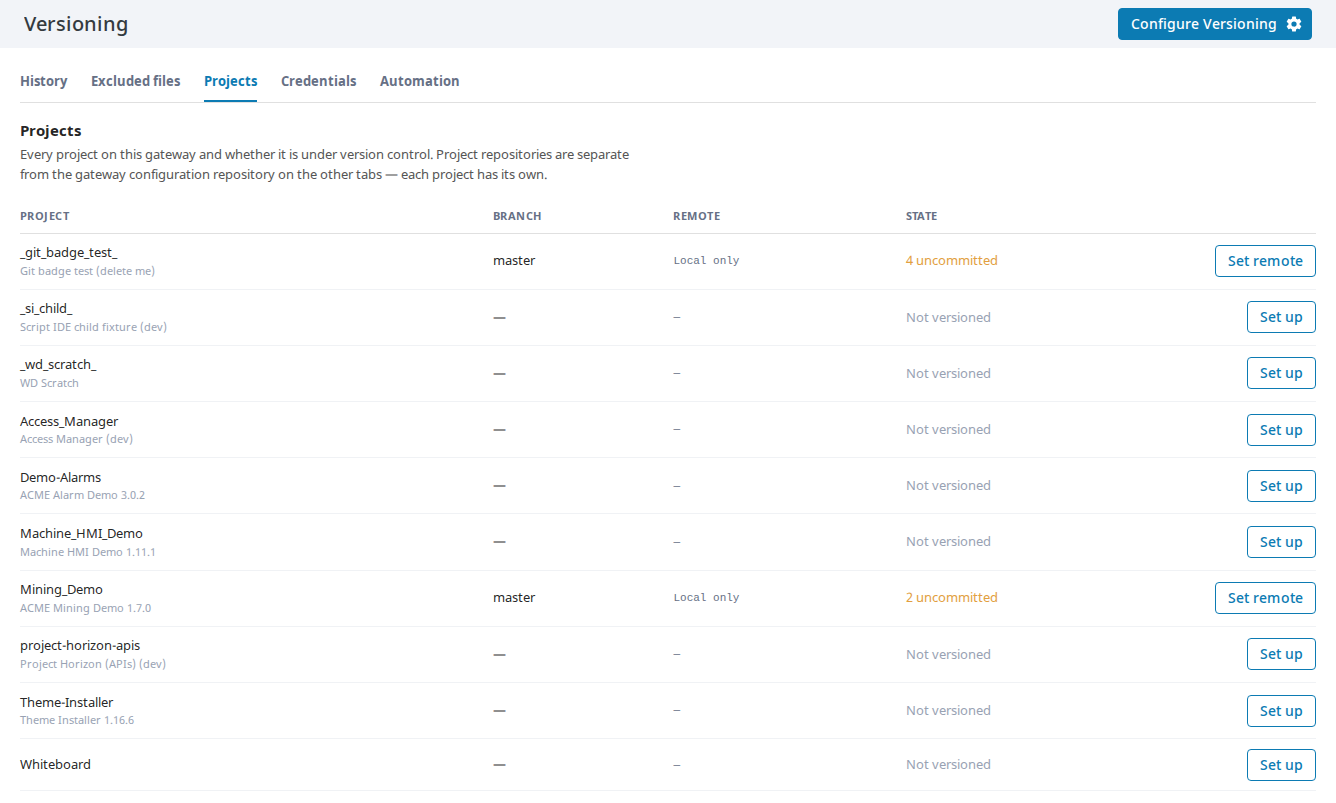
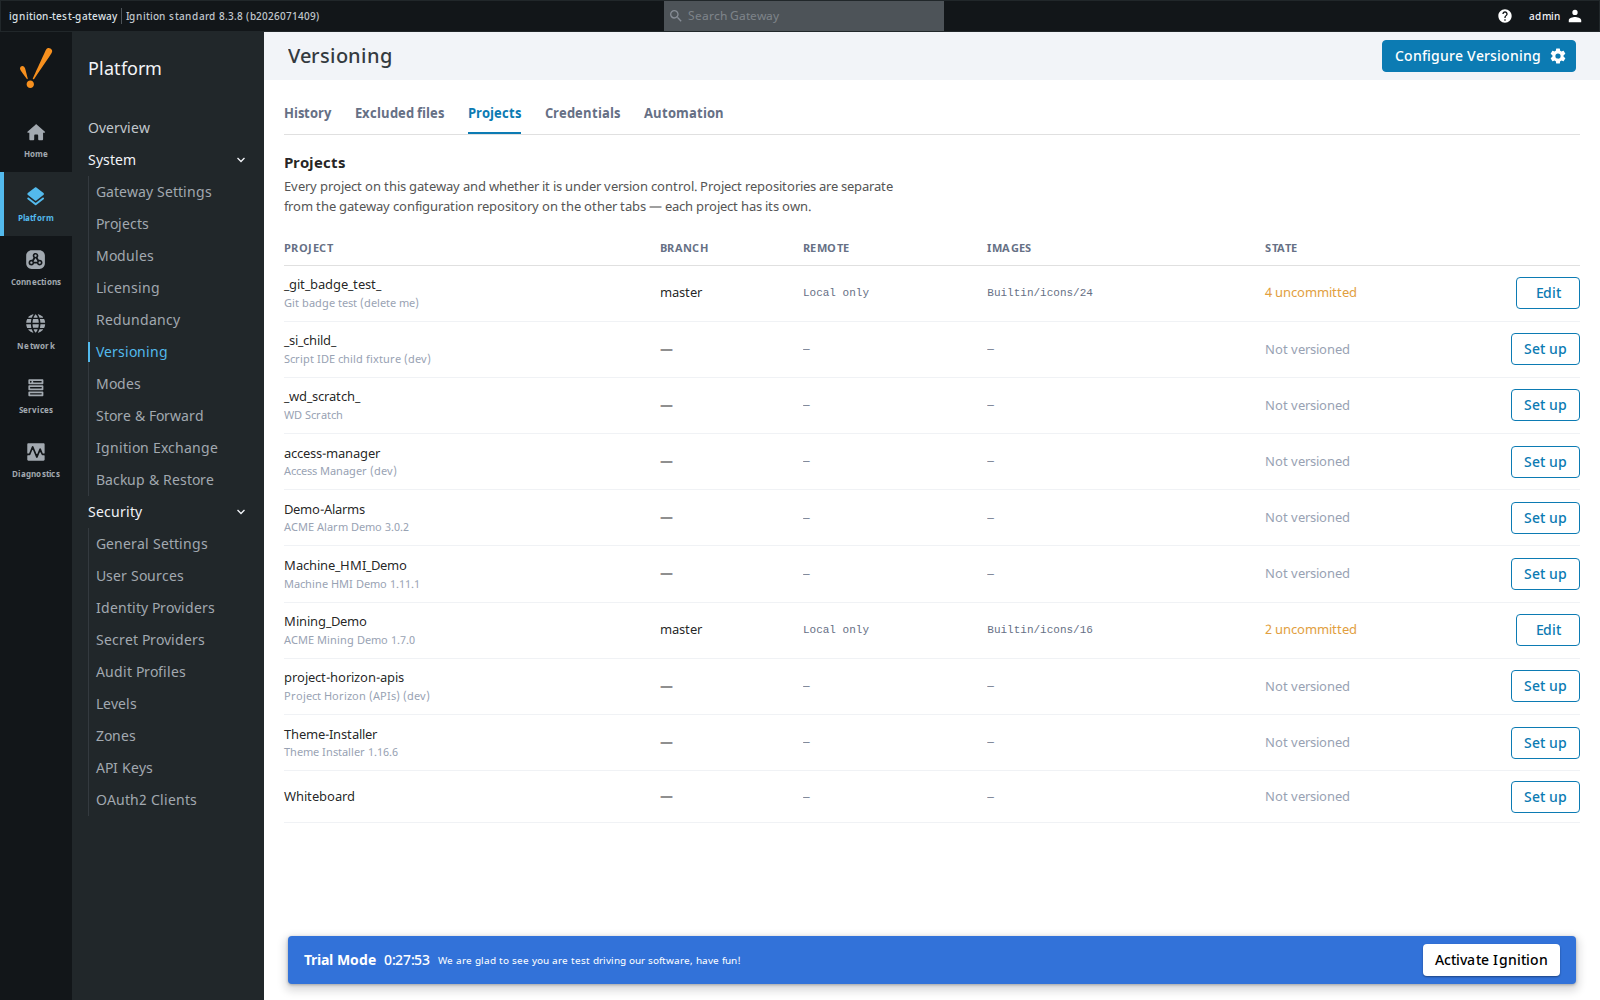
fix(ui): Radio is a group; using it as a single radio crashed the page
Opening Add credential took the whole Versioning page to Application Error.
The platform Radio maps over a `radios` array; it was given `label`/`checked`
as if it were one radio, so it read .map on undefined. Present since the
Credentials tab shipped in 2.11.0, and the same class of mistake as the
SelectInput crash fixed in 2.12.1 — so every tab and form is now swept for it,
and all twelve pass.

Also labels the webhook panel's own fields. The platform inputs put `label`
only into MUI's notch legend, which is painted at opacity 0 and clips its own
text when made opaque, so a bare field shows nothing. Recorded as a known gap
for the older forms rather than papered over.

Screenshots recaptured for the new Projects and Automation surfaces.

diff --git a/web-ui/src/pages/GitConfig/Credentials.tsx b/web-ui/src/pages/GitConfig/Credentials.tsx
@@ -142,16 +142,22 @@ const Credentials = () => {
 
       {open ? (
         <div className="gitcfg-cred-form">
+          {/*
+            Radio is a radio GROUP: it takes a `radios` array and maps over it. Used as a single
+            radio with `label`/`checked` it reads `radios.map` on undefined and takes the whole
+            page down with an Application Error — which is what opening this form used to do.
+          */}
           <div className="gitcfg-cred-row">
             <Radio
-              label="SSH key"
-              checked={kind === "SSH"}
-              onChange={() => setKind("SSH")}
-            />
-            <Radio
-              label="HTTPS username and token"
-              checked={kind === "HTTPS"}
-              onChange={() => setKind("HTTPS")}
+              name="cred-kind"
+              value={kind}
+              radios={[
+                { label: "SSH key", value: "SSH" },
+                { label: "HTTPS username and token", value: "HTTPS" },
+              ]}
+              onChange={(_e: unknown, value: string) =>
+                setKind(value as "SSH" | "HTTPS")
+              }
             />
           </div>
 
@@ -185,14 +191,15 @@ const Credentials = () => {
 
           <div className="gitcfg-cred-row">
             <Radio
-              label="Type the secret"
-              checked={mode === "inline"}
-              onChange={() => setMode("inline")}
-            />
-            <Radio
-              label="Use a stored secret"
-              checked={mode === "reference"}
-              onChange={() => setMode("reference")}
+              name="cred-mode"
+              value={mode}
+              radios={[
+                { label: "Type the secret", value: "inline" },
+                { label: "Use a stored secret", value: "reference" },
+              ]}
+              onChange={(_e: unknown, value: string) =>
+                setMode(value as "inline" | "reference")
+              }
             />
           </div>
 

diff --git a/web-ui/src/pages/GitConfig/Automation.tsx b/web-ui/src/pages/GitConfig/Automation.tsx
@@ -754,12 +754,12 @@ const Automation = () => {
             </code>
           </div>
 
+          <span className="gitcfg-auto-label">
+            {webhook?.hasSecret
+              ? "Secret — stored; type a new one to replace it"
+              : "Secret — the same value you paste into GitHub"}
+          </span>
           <TextInput
-            label={
-              webhook?.hasSecret
-                ? "Secret — stored; type a new one to replace it"
-                : "Secret — the same value you paste into GitHub"
-            }
             type="password"
             placeholder={webhook?.hasSecret ? "unchanged" : ""}
             value={hook.secret}
@@ -774,8 +774,10 @@ const Automation = () => {
             answers 404 to everyone.
           </p>
 
+          <span className="gitcfg-auto-label">
+            Event types that pull the project — comma separated
+          </span>
           <TextInput
-            label="Event types that pull the project — comma separated"
             placeholder="push"
             value={hook.syncEvents}
             onChange={(e: React.ChangeEvent<HTMLInputElement>) =>

diff --git a/web-ui/src/pages/GitConfig/_styles.scss b/web-ui/src/pages/GitConfig/_styles.scss
@@ -600,3 +600,10 @@
   padding: 0.4rem 0.6rem;
   white-space: nowrap;
 }
+
+// Sits directly above a bare TextInput. The platform component takes a `label` but renders it
+// only into MUI's notched-outline legend, which ships at opacity 0 and is clipped by its own box
+// even when painted — measured on 8.3.8. Anything that must be read gets one of these instead.
+.gitcfg-auto-label + [data-component="web-ui.text-input"] {
+  margin-top: 0.1rem;
+}

diff --git a/CHANGELOG.md b/CHANGELOG.md
@@ -63,9 +63,23 @@ upstream's; everything below is this fork.
   triggers ran in one unguarded block, so a payload Jython refused to build meant the trigger never
   fired either, and the event log named only the first failure. Each path is now isolated and
   reports its own outcome.
+- **Opening the Add credential form crashed the whole page.** The platform's `Radio` is a radio
+  *group* — it takes a `radios` array and maps over it — and it was used as four single radios with
+  `label`/`checked`. It read `radios.map` on undefined and the page went to "Application Error".
+  Present since the Credentials tab shipped in 2.11.0, and the same class of mistake as the
+  `SelectInput` crash fixed in 2.12.1. Every tab and every form on the page is now swept for this
+  before release.
+
 - **`${…}` placeholders accept dots**, so the new `details` map is reachable from a trigger body as
   `${details.conclusion}`. The pattern matched letters only, and an unmatched placeholder is left
   as literal text — so a template referring to one silently posted the placeholder itself.
+
+### Known
+- **Field labels on these tabs are not painted.** The platform's `TextInput`/`SelectInput` accept a
+  `label` but render it only into MUI's notched-outline legend, which ships at opacity 0 and is
+  clipped by its own box even when made opaque — measured on 8.3.8. The webhook panel renders its
+  own labels; the older forms still rely on placeholder text and surrounding prose. Unchanged from
+  2.11, recorded here so it is not rediscovered.
 
 - Nothing else in the module — but `docs/TROUBLESHOOTING.md` now records why a Designer vanishes on
   macOS during a pull. It is [JDK-8372757](https://bugs.openjdk.org/browse/JDK-8372757), a
